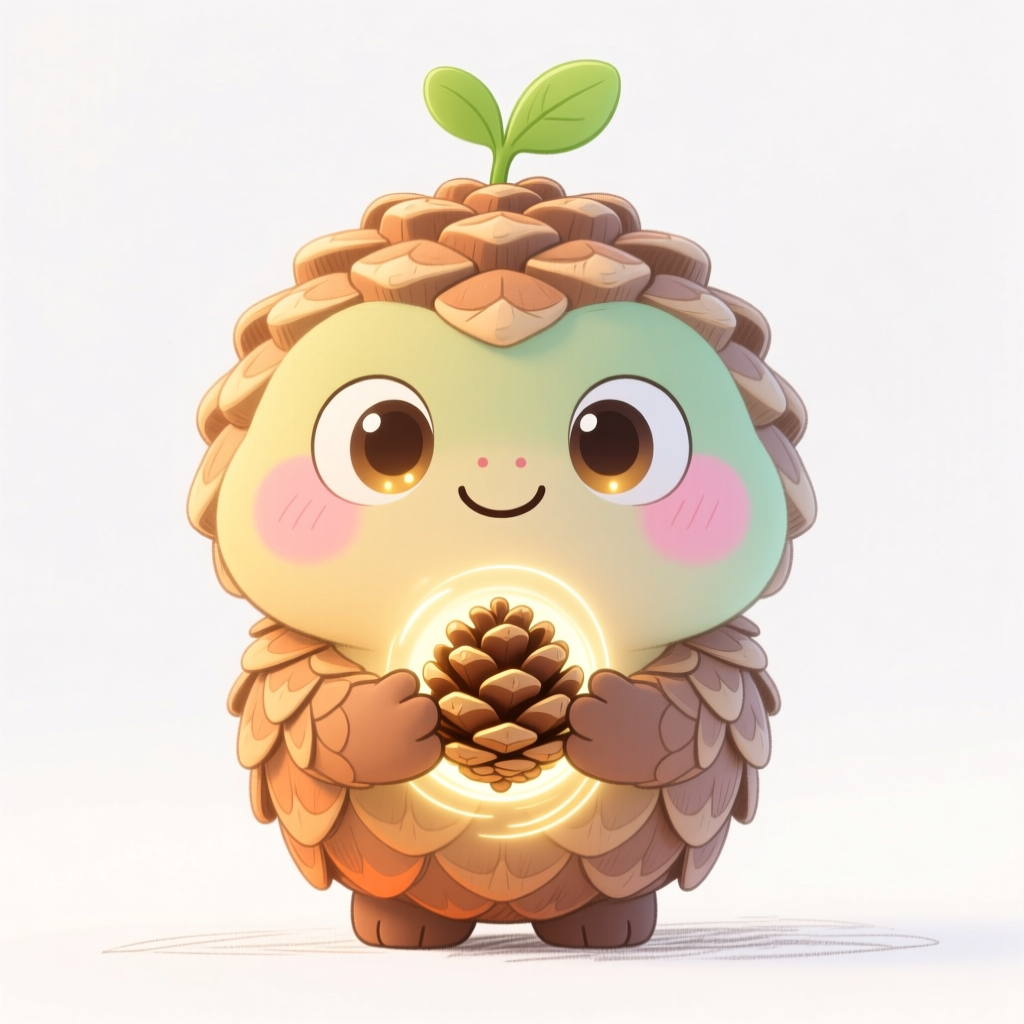
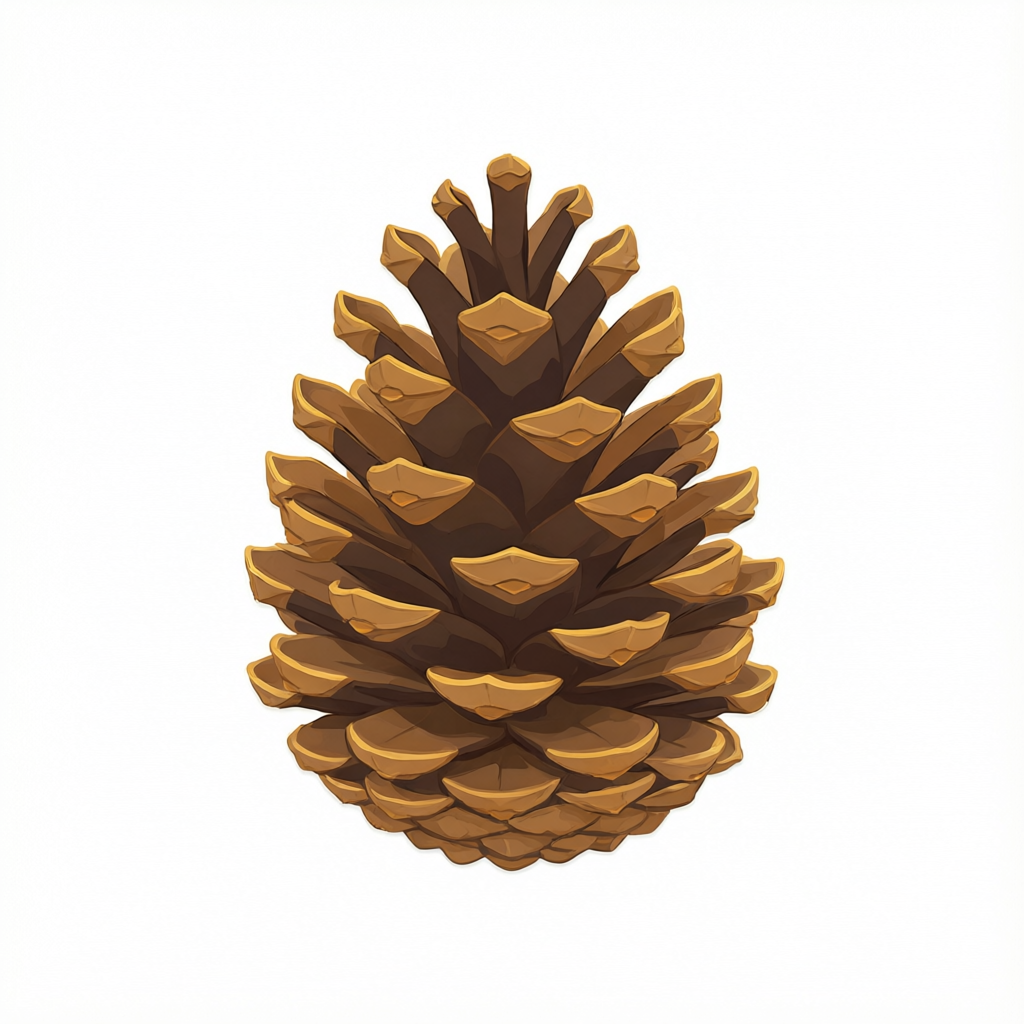
视觉V6.2:撤销右侧松果IP+slogan(全站hero-aside移除回退左文),网站松果IP换中性真实写实无芽松果(导航/首页/favicon用无芽写实IP+logoV3头像纯图形)

diff --git a/src/styles/global.css b/src/styles/global.css
@@ -188,37 +188,6 @@ button {
   .hero-mascot { display: none; }
 }
 
-/* 右区：松果 IP + slogan（左文右图方案，2026-09-07 全站相似 hero 统一） */
-.hero-aside {
-  position: absolute;
-  right: 64px;
-  top: 50%;
-  transform: translateY(-50%);
-  text-align: center;
-  z-index: 1;
-  pointer-events: none;
-}
-.hero-aside img {
-  width: 216px;
-  height: 216px;
-  border-radius: 50%;
-  border: 3px solid rgba(200, 162, 75, 0.5);
-  box-shadow: 0 20px 50px rgba(0, 0, 0, 0.4);
-  object-fit: cover;
-  background: #faf6ef;
-}
-.hero-aside .slogan {
-  margin-top: 14px;
-  color: var(--gold-400);
-  font-size: 13.5px;
-  letter-spacing: 0.05em;
-  line-height: 1.6;
-  max-width: 240px;
-}
-@media (max-width: 960px) {
-  .hero-aside { display: none; }
-}
-
 .brand .gold {
   color: var(--gold-400);
 }
